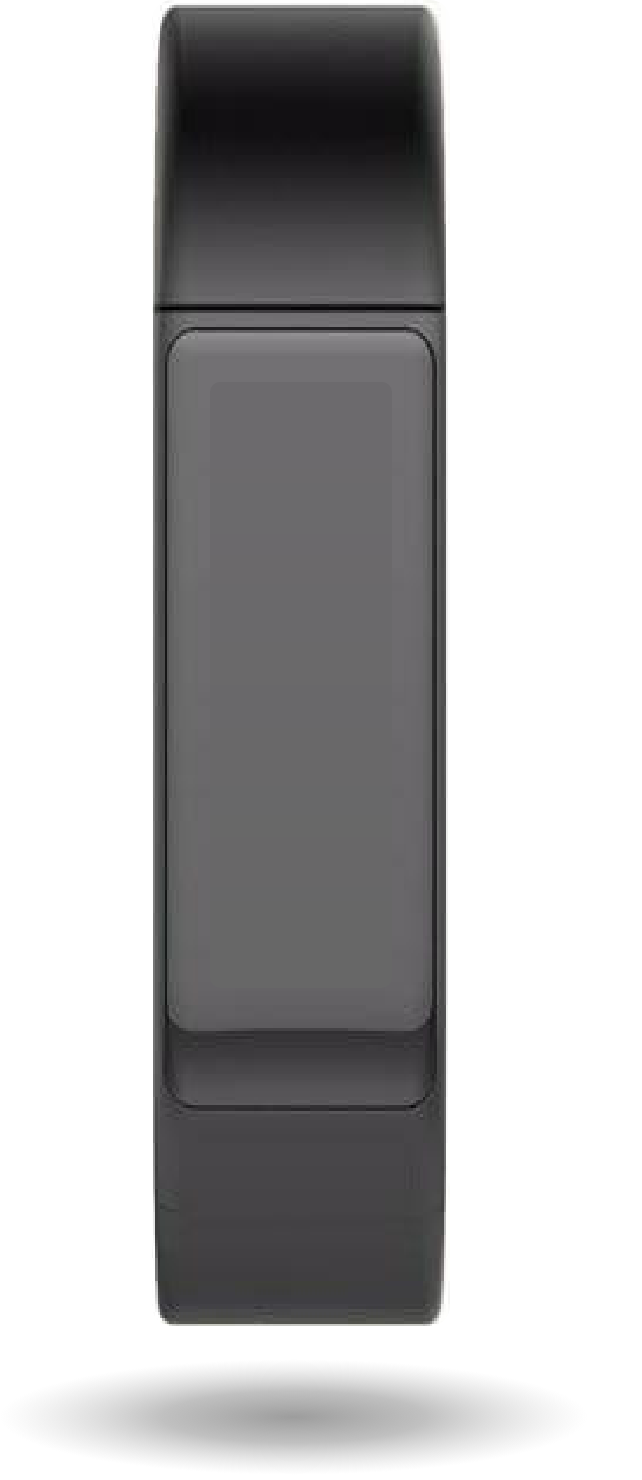
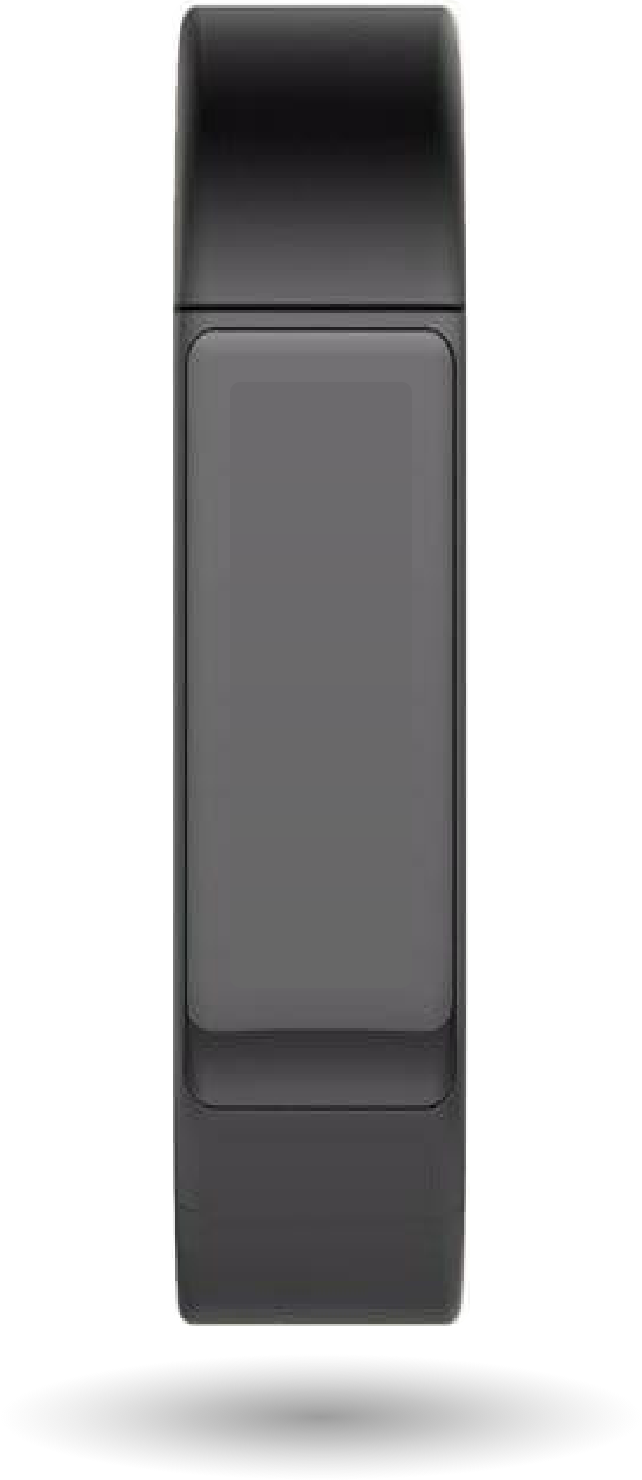
Added Active Band carousel and added flex support for mobile

Changed region(s): [[0.2181, 0.0, 0.3115, 0.9014], [0.6542, 0.0, 0.7477, 0.9014]]

diff --git a/index.html b/index.html
@@ -171,17 +171,27 @@
       </section>
       <section class="section feature">
         <div class="container has-text-centered">
-          <div class="columns">
+          <div class="columns feature-header">
             <div class="column is-12 is-vcentered">
               <h2 class="title">Long lasting battery, invaluable insights.</h2>
               <h3 class="subtitle is-coral">Sync your Active Band using the Active Hub</h3>
             </div>
           </div>
         </div>
-        <div class="container">
-          <div class="columns">
-            <div class="column is-12-mobile is-hidden-tablet feature-image"><img src="public/images/activeband-front.png"></div>
-            <div class="column is-12-mobile is-5-tablet">
+        <div class="container feature-body">
+          <div class="columns is-centered activeband-columns">
+            <div class="column is-2-tablet activeband-slider-wrapper order-1">
+              <div></div>
+              <div class="activeband-slider">
+                <div><img src="public/images/carousel-screens/steps.png"></div>
+                <div><img src="public/images/carousel-screens/avatar.png"></div>
+                <div><img src="public/images/carousel-screens/water.png"></div>
+                <div><img src="public/images/carousel-screens/sync.png"></div>
+                <div><img src="public/images/carousel-screens/kids.png"></div>
+                <div><img src="public/images/carousel-screens/battery.png"></div>
+              </div>
+            </div>
+            <div class="column is-12-mobile is-4-tablet order-2">
               <div class="feature-descriptions is-activeband">
                 <div class="selector active">
                   <h3 class="activity-tracking">24 hr Activity</h3>
@@ -197,8 +207,7 @@
                 </div>
               </div>
             </div>
-            <div class="column is-hidden-mobile is-2-tablet"><img src="public/images/activeband-front.png"></div>
-            <div class="column is-12-mobile is-5-tablet">
+            <div class="column is-12-mobile is-4-tablet">
               <div class="feature-descriptions is-activeband">
                 <div class="selector">
                   <h3 class="bluetooth">Wireless Syncing</h3>

diff --git a/css/main.css b/css/main.css
@@ -7064,6 +7064,9 @@ body {
       width: 50%;
       background-color: #23D9D2; } }
 
+.feature .feature-header {
+  margin-bottom: 4rem; }
+
 .feature h2 {
   font-weight: 400;
   color: black; }
@@ -7206,6 +7209,12 @@ body {
     text-decoration: inherit;
     position: absolute; }
 
+.feature-body .order-1 {
+  order: 1; }
+
+.feature-body .order-2 {
+  order: 2; }
+
 .kit-contents .columns {
   align-items: baseline; }
 
@@ -7218,3 +7227,25 @@ body {
 
 .kit-contents .kit-item > div > img {
   max-height: 25vh; }
+
+.activeband-slider-wrapper {
+  background: url("../public/images/activeband-front.png") center center no-repeat;
+  background-size: 80% 80%;
+  background-size: contain;
+  position: relative; }
+  .activeband-slider-wrapper .slick-slide img {
+    margin: auto; }
+
+@media screen and (max-width: 768px) {
+  .activeband-slider-wrapper {
+    min-height: 300px; }
+  .activeband-slider-wrapper > div {
+    margin-top: 65px; } }
+
+@media screen and (min-width: 769px), print {
+  .activeband-slider-wrapper > div {
+    min-height: 50%;
+    margin-top: -25%; } }
+
+.activeband-columns {
+  flex-direction: row-reverse; }

diff --git a/_sass/main.scss b/_sass/main.scss
@@ -185,6 +185,9 @@ body {
 }
 
 .feature {
+  .feature-header {
+    margin-bottom: 4rem;
+  }
   h2 {
     font-weight: 400;
     color: black;
@@ -392,6 +395,15 @@ body {
   }
 }
 
+.feature-body {
+  .order-1 {
+    order: 1;
+  }
+  .order-2 {
+    order: 2;
+  }
+}
+
 .kit-contents {
   .columns {
     align-items: baseline;
@@ -410,6 +422,45 @@ body {
   .kit-item > div > img {
     max-height: 25vh;
   }
+}
+
+.activeband-slider-wrapper {
+  background: url("../public/images/activeband-front.png") center center no-repeat;
+  background-size: 80% 80%;
+  background-size: contain;
+  position: relative;
+
+  .slick-slide img {
+    margin: auto;
+  }
+}
+
+@include mobile {
+  .activeband-slider-wrapper {
+    min-height: 300px;
+  }
+
+  .activeband-slider-wrapper > div {
+    margin-top: 65px;
+  }
+}
+
+@include tablet {
+  .activeband-slider-wrapper > div {
+    min-height: 50%;
+    margin-top: -25%;
+  }
+}
+
+.activeband-columns {
+  flex-direction: row-reverse;
+
+  // .column:nth-child(0) {
+  //   order: 2;
+  // }
+  // .column:nth-child(1) {
+  //   order: 1;
+  // }
 }
 
 // .feature-background-right ::after {

diff --git a/_javascript/main.js b/_javascript/main.js
@@ -26,8 +26,15 @@ document.addEventListener('DOMContentLoaded', () => {
 
 $(document).ready(function(){
   var browserSlider = $('.browser-slider');
+  var activebandSlider = $('.activeband-slider');
+
   $('.browser-slider').slick({
     arrows: false
+  });
+
+  var activebandSlider = $('.activeband-slider').slick({
+    arrows: false,
+    adaptiveHeight: true
   });
 
   $('.feature-descriptions .selector').on('click', function(e) {
@@ -35,9 +42,12 @@ $(document).ready(function(){
       browserSlider[0].slick.slickGoTo(parseInt($(this).index()));
       $('.feature-descriptions.is-portal .selector').not(this).removeClass('active');
     } else {
+      activebandSlider[0].slick.slickGoTo(parseInt($(this).index()));
       $('.feature-descriptions.is-activeband .selector').not(this).removeClass('active');
     }
 
     $(this).toggleClass('active');
   });
+
+
 });

diff --git a/lib/main.js b/lib/main.js
@@ -26,8 +26,15 @@ document.addEventListener('DOMContentLoaded', function () {
 
 $(document).ready(function () {
   var browserSlider = $('.browser-slider');
+  var activebandSlider = $('.activeband-slider');
+
   $('.browser-slider').slick({
     arrows: false
+  });
+
+  var activebandSlider = $('.activeband-slider').slick({
+    arrows: false,
+    adaptiveHeight: true
   });
 
   $('.feature-descriptions .selector').on('click', function (e) {
@@ -35,6 +42,7 @@ $(document).ready(function () {
       browserSlider[0].slick.slickGoTo(parseInt($(this).index()));
       $('.feature-descriptions.is-portal .selector').not(this).removeClass('active');
     } else {
+      activebandSlider[0].slick.slickGoTo(parseInt($(this).index()));
       $('.feature-descriptions.is-activeband .selector').not(this).removeClass('active');
     }
 
